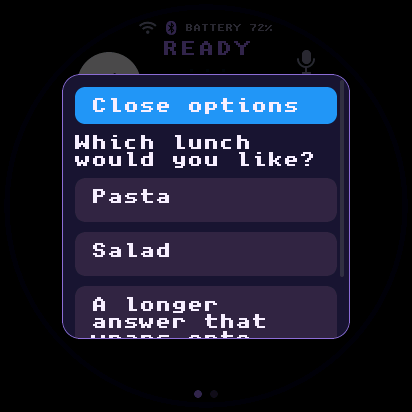
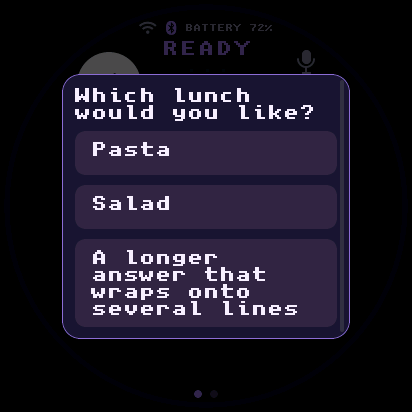
docs: refresh the simplified option picker preview

Changed region(s): [[0.1748, 0.2039, 0.8447, 0.8447]]

diff --git a/esp32/docs/reply-option-selection.md b/esp32/docs/reply-option-selection.md
@@ -1,12 +1,15 @@
 # Reply option selection
 
 On PSRAM boards with the LVGL touchscreen UI, Muse's text option questions open
-a scrollable picker. Tap an answer to send it. **Close options** returns to the
-conversation, as does tapping outside the panel. A text-only **Options** control
+a scrollable picker showing the question and its answers. Tap an answer to send
+it, or tap outside the panel to return to the conversation. A text-only **Options** control
 appears only when an unanswered question is dismissed; it disappears as soon as
 an answer is submitted. A selected answer is retained internally to prevent
 repeat submission. Voice recording and calls
 temporarily hide the picker.
+
+The question comes from the widget title when supplied, otherwise from Muse's
+reply text. “Choose an option” is used only when no question text is available.
 
 On round displays, the panel is scaled so its entire rectangular diagonal fits
 within the display diameter minus 20 pixels. This keeps its corners and
